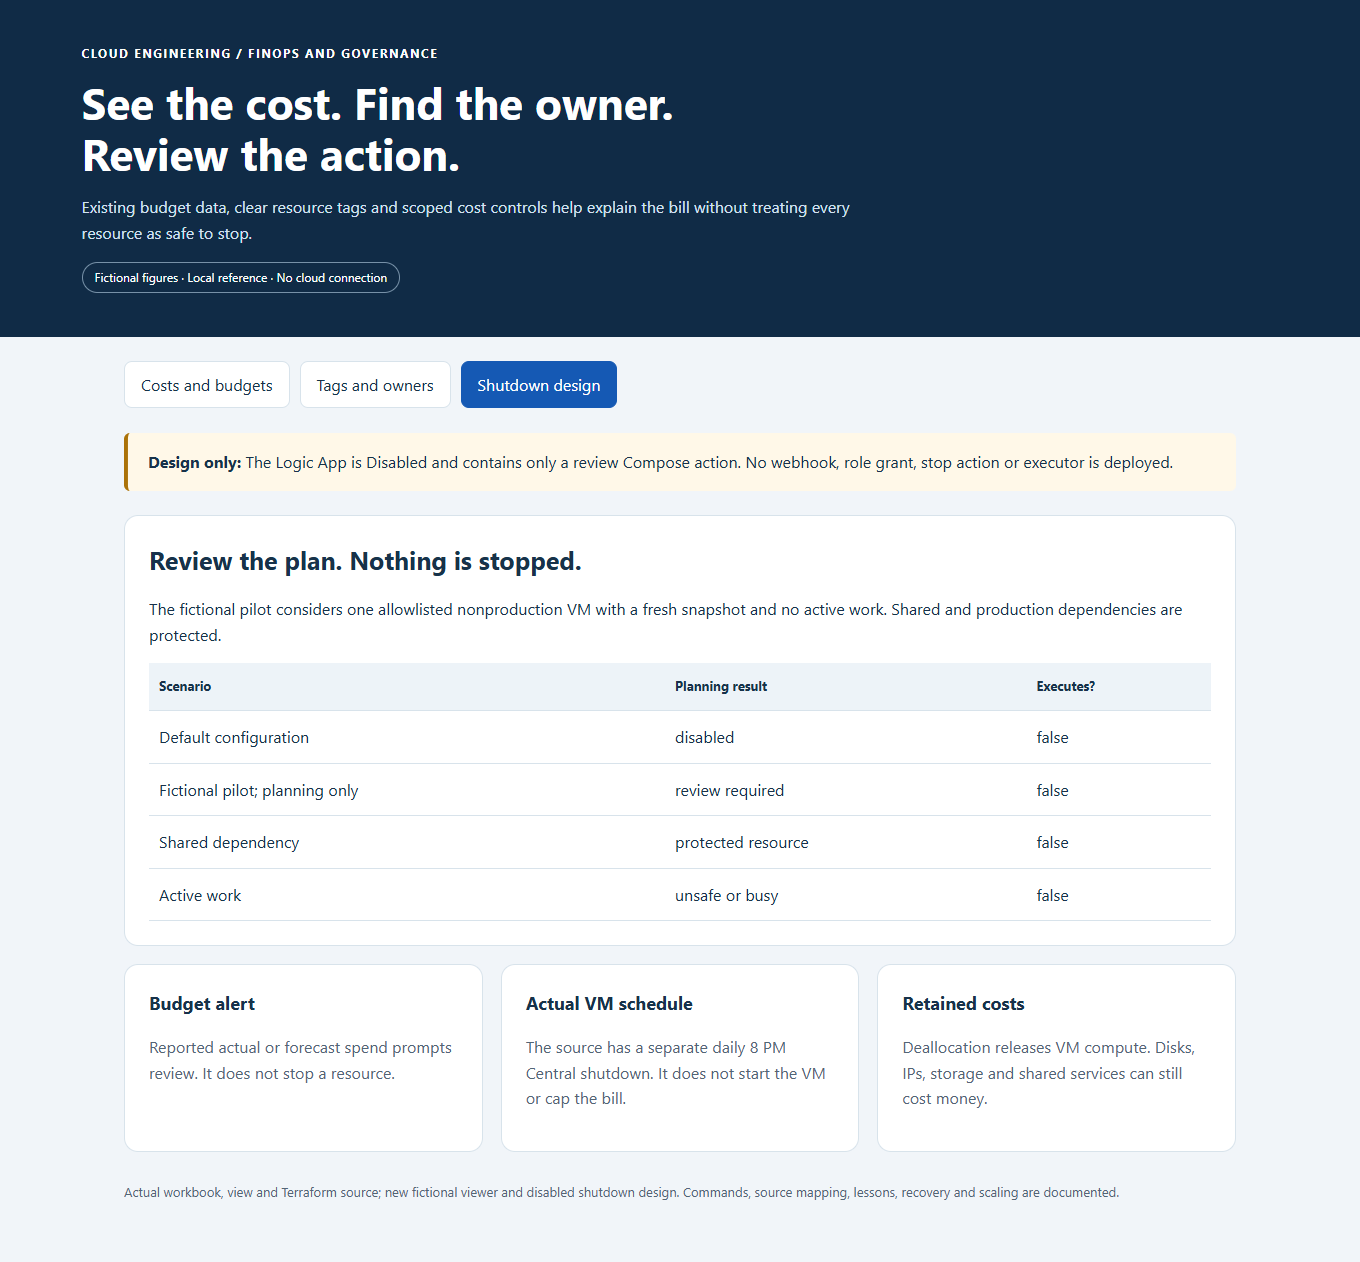
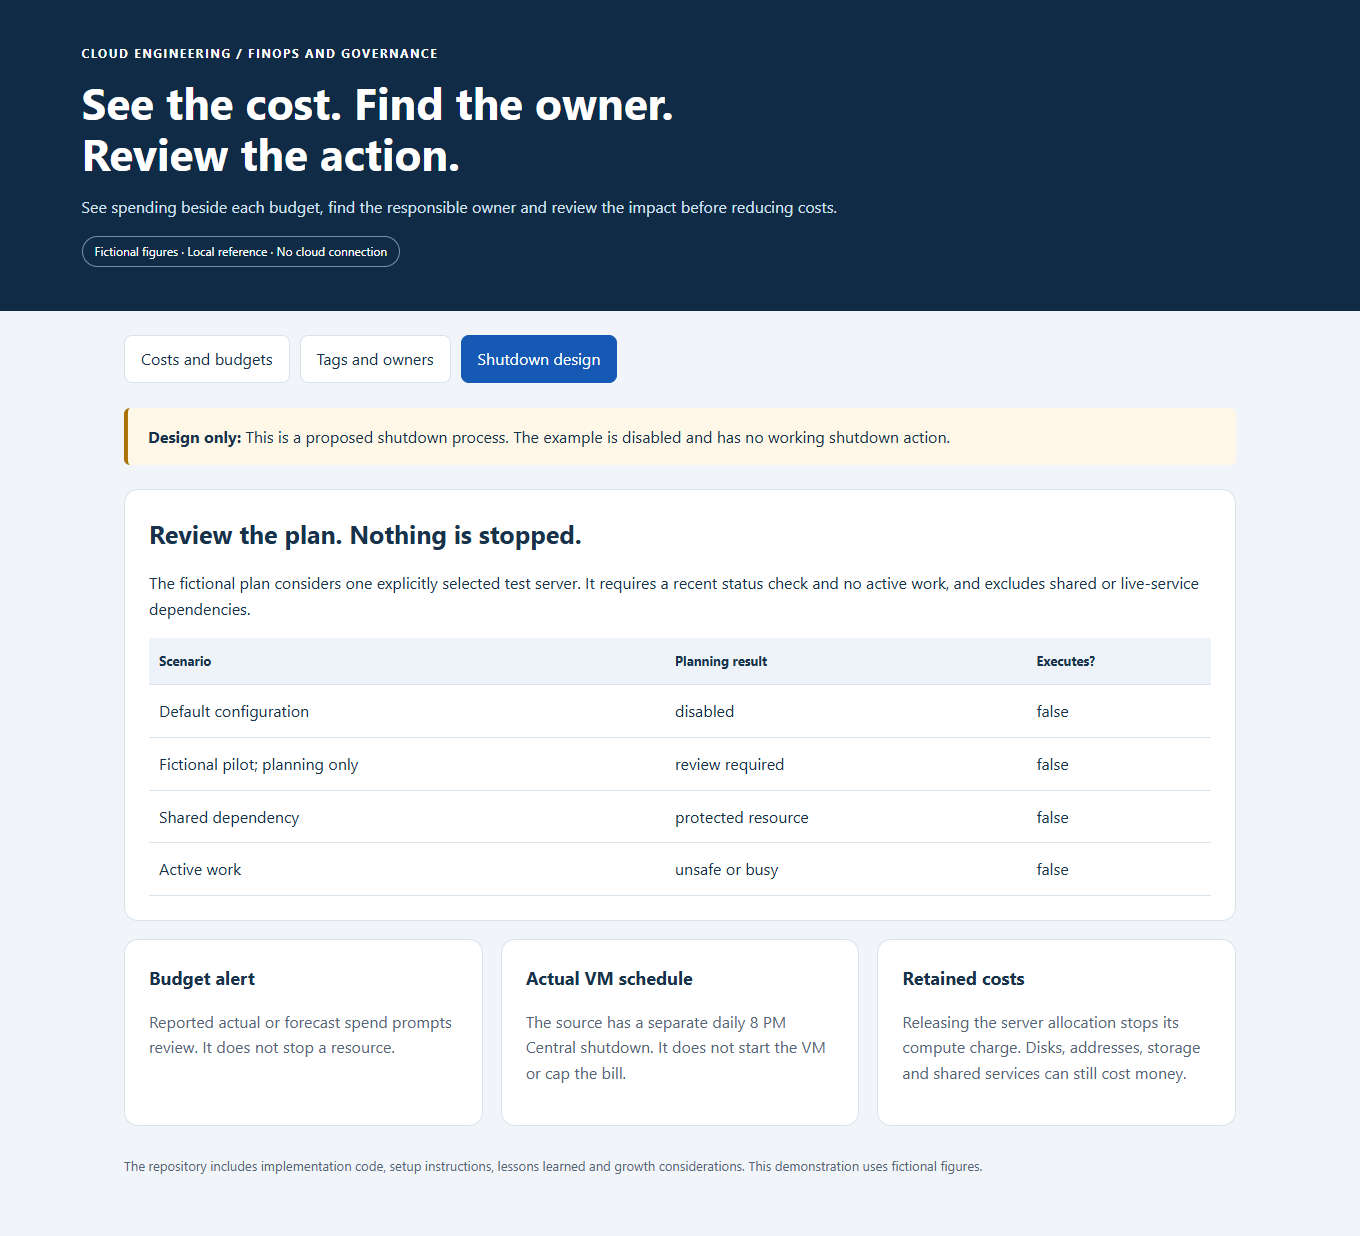
Lead with plain business explanations and retain technical detail separately

diff --git a/preview/index.html b/preview/index.html
@@ -1,10 +1,10 @@
 <!doctype html><html lang="en"><head><meta charset="utf-8"><meta name="viewport" content="width=device-width,initial-scale=1"><title>Cost visibility and tagging</title><style>
 :root{color-scheme:light;--navy:#102b46;--ink:#17324a;--muted:#536576;--line:#d8e3eb;--blue:#1559b4;--teal:#086b5c}*{box-sizing:border-box}body{margin:0;background:#f1f5f9;color:var(--ink);font:16px/1.6 system-ui,sans-serif}header{background:var(--navy);color:white;padding:44px max(6vw,20px)}header p{max-width:780px;color:#d3e3f2}h1{font-size:clamp(29px,4vw,44px);line-height:1.15;max-width:850px;margin:14px 0}h2{font-size:25px;margin:0 0 12px}h3{font-size:18px;margin:0 0 8px}.eyebrow{text-transform:uppercase;letter-spacing:.13em;font-size:12px;font-weight:750}.pill{border:1px solid #7791a8;border-radius:20px;padding:5px 12px;font-size:12px;display:inline-block}main{max-width:1160px;margin:auto;padding:24px}nav{display:flex;gap:10px;flex-wrap:wrap;margin-bottom:25px}button{font:inherit;cursor:pointer;border:1px solid var(--line);background:white;color:var(--ink);border-radius:8px;padding:10px 16px}button[aria-selected=true]{background:var(--blue);color:white;border-color:var(--blue)}button:focus-visible{outline:3px solid #c98913;outline-offset:3px}.grid{display:grid;grid-template-columns:repeat(3,minmax(0,1fr));gap:18px}.card,.box{background:white;border:1px solid var(--line);border-radius:14px;padding:24px;margin-bottom:18px}.card p{color:var(--muted)}.big{font-size:27px;font-weight:750;color:var(--blue)}.note{padding:16px 20px;border-left:4px solid #ab7208;background:#fff8e8;border-radius:6px;margin:16px 0 24px}.step{display:grid;grid-template-columns:42px 1fr;gap:16px;padding:18px 0;border-top:1px solid var(--line)}.number{background:#e5f0ff;border-radius:50%;width:38px;height:38px;display:grid;place-items:center;font-weight:800}.step p{margin:0;color:var(--muted)}.table-wrap{overflow:auto}table{border-collapse:collapse;width:100%;text-align:left}th,td{border-bottom:1px solid var(--line);padding:13px 10px;vertical-align:top}th{font-size:13px;background:#edf3f8}.pass{color:var(--teal);font-weight:750}.blocked{color:#8a3b0a;font-weight:750}code{background:#edf3f8;border-radius:4px;padding:2px 5px;overflow-wrap:anywhere}footer{color:var(--muted);font-size:13px;padding:12px 0 35px}[hidden]{display:none!important}@media(max-width:700px){main{padding:16px}header{padding:30px 20px}.grid{grid-template-columns:1fr}.card,.box{padding:18px}th,td{padding:10px 7px;font-size:14px}}
 </style></head><body>
-<header><div class="eyebrow">Cloud engineering / FinOps and governance</div><h1>See the cost. Find the owner.<br>Review the action.</h1><p>Existing budget data, clear resource tags and scoped cost controls help explain the bill without treating every resource as safe to stop.</p><span class="pill">Fictional figures · Local reference · No cloud connection</span></header><main>
+<header><div class="eyebrow">Cloud engineering / FinOps and governance</div><h1>See the cost. Find the owner.<br>Review the action.</h1><p>See spending beside each budget, find the responsible owner and review the impact before reducing costs.</p><span class="pill">Fictional figures · Local reference · No cloud connection</span></header><main>
 <nav role="tablist" aria-label="Project sections"><button role="tab" id="tab-costs" aria-controls="costs" aria-selected="true">Costs and budgets</button><button role="tab" id="tab-tags" aria-controls="tags" aria-selected="false">Tags and owners</button><button role="tab" id="tab-shutdown" aria-controls="shutdown" aria-selected="false">Shutdown design</button></nav>
-<section id="costs" role="tabpanel" aria-labelledby="tab-costs"><div class="note"><strong>Illustrative only:</strong> All spend below is fictional. Budget thresholds notify; they do not cap charges. Missing data is not zero.</div><div class="grid" id="budget-cards"></div><div class="box"><h2>One overview. Native details.</h2><p>The actual workbook reads three existing budget resources. Detailed daily actual cost stays in Azure Cost Analysis, with breakdowns by service, resource group and billing meter category.</p><p>Cost reporting is delayed. A refreshed page is not a real-time meter or final invoice.</p></div><div class="box"><h2>Controls with different jobs</h2><div class="table-wrap"><table><thead><tr><th>Control</th><th>Purpose</th><th>Boundary</th></tr></thead><tbody><tr><td>50%, 80%, 100% actual</td><td>Review recorded spend</td><td>Notifications only</td></tr><tr><td>90% forecast</td><td>Review projected spending</td><td>A forecast is not an invoice</td></tr><tr><td>Tag policy</td><td>Find missing resource tags</td><td>Enforcement disabled</td></tr><tr><td>Logic App shutdown</td><td>Proposed scoped cost action</td><td>Deferred; no shutdown action</td></tr></tbody></table></div></div></section>
-<section id="tags" role="tabpanel" aria-labelledby="tab-tags" hidden><div class="box"><h2>Ownership should be easy to find</h2><p>Seven common keys identify environment, workload, owner, management method, data class, criticality and cost center.</p><div class="table-wrap"><table><thead><tr><th>Fictional resource</th><th>Owner</th><th>Cost center</th><th>Missing tags</th></tr></thead><tbody id="tag-rows"></tbody></table></div></div><div class="note"><strong>Source gap kept visible:</strong> The copied workbook builder omits criticality. The checks identify it; they do not silently change the live resource.</div><div class="box"><h2>Tags support a decision. They do not authorize it.</h2><p>A nonproduction subscription can contain shared production dependencies. Resource-group tags do not automatically become resource tags. The copied policy evaluates compliance without enforcing or remediating it.</p></div></section>
-<section id="shutdown" role="tabpanel" aria-labelledby="tab-shutdown" hidden><div class="note"><strong>Design only:</strong> The Logic App is Disabled and contains only a review Compose action. No webhook, role grant, stop action or executor is deployed.</div><div class="box"><h2>Review the plan. Nothing is stopped.</h2><p>The fictional pilot considers one allowlisted nonproduction VM with a fresh snapshot and no active work. Shared and production dependencies are protected.</p><div class="table-wrap"><table><thead><tr><th>Scenario</th><th>Planning result</th><th>Executes?</th></tr></thead><tbody id="shutdown-rows"></tbody></table></div></div><div class="grid"><article class="card"><h3>Budget alert</h3><p>Reported actual or forecast spend prompts review. It does not stop a resource.</p></article><article class="card"><h3>Actual VM schedule</h3><p>The source has a separate daily 8 PM Central shutdown. It does not start the VM or cap the bill.</p></article><article class="card"><h3>Retained costs</h3><p>Deallocation releases VM compute. Disks, IPs, storage and shared services can still cost money.</p></article></div></section>
-<footer>Actual workbook, view and Terraform source; new fictional viewer and disabled shutdown design. Commands, source mapping, lessons, recovery and scaling are documented.</footer></main>
+<section id="costs" role="tabpanel" aria-labelledby="tab-costs"><div class="note"><strong>Illustrative only:</strong> All spend below is fictional. Budget thresholds notify; they do not cap charges. Missing data is not zero.</div><div class="grid" id="budget-cards"></div><div class="box"><h2>Start with the overview. Explore the details in Azure.</h2><p>The dashboard shows three existing budgets. Azure Cost Analysis provides the detailed spending breakdowns.</p><p>Cost reporting is delayed. A refreshed page is not a real-time meter or final invoice.</p></div><div class="box"><h2>Controls with different jobs</h2><div class="table-wrap"><table><thead><tr><th>Control</th><th>Purpose</th><th>Boundary</th></tr></thead><tbody><tr><td>50%, 80%, 100% actual</td><td>Review recorded spend</td><td>Notifications only</td></tr><tr><td>90% forecast</td><td>Review projected spending</td><td>A forecast is not an invoice</td></tr><tr><td>Tag policy</td><td>Find missing resource tags</td><td>Enforcement disabled</td></tr><tr><td>Logic App shutdown</td><td>Proposed scoped cost action</td><td>Deferred; no shutdown action</td></tr></tbody></table></div></div></section>
+<section id="tags" role="tabpanel" aria-labelledby="tab-tags" hidden><div class="box"><h2>Ownership should be easy to find</h2><p>Resource labels identify the environment, purpose, owner, management method, data sensitivity, importance and cost center.</p><div class="table-wrap"><table><thead><tr><th>Fictional resource</th><th>Owner</th><th>Cost center</th><th>Missing tags</th></tr></thead><tbody id="tag-rows"></tbody></table></div></div><div class="note"><strong>Source gap kept visible:</strong> The dashboard builder leaves out the importance label, called criticality. The tests report that gap without changing live resources.</div><div class="box"><h2>Tags support a decision. They do not authorize it.</h2><p>A test environment can still contain services used by the live platform. Labels help with the review but do not grant permission to stop a resource. The rules report missing labels without fixing or blocking them automatically.</p></div></section>
+<section id="shutdown" role="tabpanel" aria-labelledby="tab-shutdown" hidden><div class="note"><strong>Design only:</strong> This is a proposed shutdown process. The example is disabled and has no working shutdown action.</div><div class="box"><h2>Review the plan. Nothing is stopped.</h2><p>The fictional plan considers one explicitly selected test server. It requires a recent status check and no active work, and excludes shared or live-service dependencies.</p><div class="table-wrap"><table><thead><tr><th>Scenario</th><th>Planning result</th><th>Executes?</th></tr></thead><tbody id="shutdown-rows"></tbody></table></div></div><div class="grid"><article class="card"><h3>Budget alert</h3><p>Reported actual or forecast spend prompts review. It does not stop a resource.</p></article><article class="card"><h3>Actual VM schedule</h3><p>The source has a separate daily 8 PM Central shutdown. It does not start the VM or cap the bill.</p></article><article class="card"><h3>Retained costs</h3><p>Releasing the server allocation stops its compute charge. Disks, addresses, storage and shared services can still cost money.</p></article></div></section>
+<footer>The repository includes implementation code, setup instructions, lessons learned and growth considerations. This demonstration uses fictional figures.</footer></main>
 <script>const tabs=[...document.querySelectorAll('[role=tab]')];function select(tab){for(const t of tabs){t.setAttribute('aria-selected',String(t===tab));document.getElementById(t.getAttribute('aria-controls')).hidden=t!==tab}}for(const tab of tabs){tab.addEventListener('click',()=>select(tab));tab.addEventListener('keydown',e=>{if(['ArrowLeft','ArrowRight'].includes(e.key)){e.preventDefault();const next=tabs[(tabs.indexOf(tab)+(e.key==='ArrowRight'?1:-1)+tabs.length)%tabs.length];select(next);next.focus()}})}function el(tag,text,cls){const e=document.createElement(tag);e.textContent=text;if(cls)e.className=cls;return e}function row(id,values){const tr=document.createElement('tr');values.forEach(x=>tr.append(el('td',x)));document.getElementById(id).append(tr)}fetch('/data.json').then(r=>{if(!r.ok)throw Error('Reference data unavailable');return r.json()}).then(data=>{for(const b of data.budgets){const c=el('article','','card');c.append(el('h2',b.scope),el('div',b.currency+' '+b.reported,'big'),el('p','Fictional reported spend'),el('p','Monthly alert budget: '+b.currency+' '+b.budget),el('p',b.percentage===null?'Budget comparison unknown':b.percentage+'% of alert budget'),el('p','Fictional forecast: '+b.currency+' '+b.forecast));document.getElementById('budget-cards').append(c)}for(const r of data.resources)row('tag-rows',[r.name,r.tags.owner||'Unassigned',r.tags.cost_center||'Unassigned',r.missing.length?r.missing.join(', '):'None']);for(const s of data.shutdown)row('shutdown-rows',[s.scenario,s.status.replaceAll('_',' '),String(s.execute)])}).catch(e=>{const p=el('p',e.message);p.setAttribute('role','alert');document.querySelector('main').prepend(p)});</script></body></html>

diff --git a/README.md b/README.md
@@ -1,6 +1,6 @@
 # Azure Cost Visibility, Tagging and FinOps
 
-**Make cloud spending understandable, connect resources to owners and review cost actions before disrupting services.**
+**See where cloud money goes, who owns each resource and what to review before reducing costs.**
 
 [Business problem](#the-business-problem) · [Strengths](#engineering-strengths) · [What was built](#what-was-built) · [Shutdown design](#logic-app-shutdown-design) · [Proof](#proof-it-works) · [Commands](docs/COMMANDS.md)
 
@@ -8,63 +8,68 @@
 
 ## The Business Problem
 
-The platform has live services, test environments and shared services. A single bill does not explain which environment is driving spend, who owns a resource or why charges continue after an application is paused. Missing tags make that investigation harder. Automatically stopping everything in a nonproduction subscription could also interrupt shared production dependencies.
+A cloud bill shows charges, but it does not always explain which system caused them or who should investigate. Costs can also continue after an application is paused.
+
+I needed a clear view of spending across live services, test environments and shared services. Cost reductions also needed care: a resource in a test subscription might still support a live service.
 
 ## The Solution
 
-Bring existing subscription budgets into one Azure Monitor workbook, keep detailed daily analysis in native Cost Management views and use consistent tags to identify resources and their owners. Use actual and forecast alerts to prompt review. Keep resource shutdown separate from reporting, with an explicit allowlist and recovery plan before any future budget-triggered automation.
+I brought the existing budgets into one Azure dashboard and kept detailed spending breakdowns in Azure Cost Management. Resource tags—labels such as owner, environment and cost center—help connect charges to the responsible team.
 
-**Business outcome:** Engineers can compare reported spend with the correct environment budget, find an owner and investigate a cost driver before changing capacity or stopping services. The public example uses fictional spending figures and does not claim measured savings.
+**Business outcome:** Engineers can investigate spending before changing services. Budget alerts prompt a review; they do not stop spending automatically. The public examples use fictional costs.
 
 ## Engineering Strengths
 
-| Strength | Practical value |
+| Design choice | Practical benefit |
 | --- | --- |
-| **Uses existing budget data** | The workbook reads budget resources rather than adding a second log workspace or a new ingestion pipeline just to display costs. |
-| **Separates actual from forecast** | Alerts at 50%, 80% and 100% of actual spending differ from a 90% forecast alert. The saved alert type determines which one applies. |
-| **Makes ownership visible** | Seven common tag keys connect an environment, workload, owner and cost center with operational context. |
-| **Keeps policy behavior explicit** | The tag and location policies report compliance with enforcement disabled. They do not silently block deployments or repair tags. |
-| **Protects existing views** | The saved-view helper checks existing views and refuses mismatches instead of overwriting them. |
-| **Keeps cost actions scoped** | The proposed shutdown model rejects shared dependencies, production resources, stale observations and active work; it never executes a stop. |
+| Reuse existing budget information | Avoid another data collection system just to show costs. |
+| Label resources consistently | Make it easier to find an owner and understand a resource's purpose. |
+| Separate recorded spending from forecasts | Help readers distinguish charges already reported from estimates of future spending. |
+| Report missing tags without blocking changes | Give owners a chance to correct gaps without unexpected service disruption. |
+| Review shutdown plans separately | Avoid stopping a shared or busy service just because a budget alert arrived. |
 
 ## Architecture
 
 ```mermaid
 flowchart LR
-  Budgets[Existing subscription budgets] --> Workbook[Budget data in shared workbook]
-  Billing[Azure cost records] --> Views[Daily native Cost Analysis views]
-  Tags[Terraform common tags] --> Ownership[Owner and cost-center context]
-  Policy[Policy with enforcement disabled] --> Gaps[Missing-tag review]
-  Budgets --> Alerts[Actual and forecast notifications]
-  Alerts -. Proposed only .-> Logic[Disabled Logic App review design]
-  Logic -. No shutdown action included .-> Review[Explicit allowlist and operator review]
+  Budgets[Existing budgets] --> Dashboard[Shared cost dashboard]
+  Costs[Azure spending records] --> Details[Detailed spending views]
+  Labels[Resource labels] --> Owners[Owner and business purpose]
+  Budgets --> Alert[Spending alert]
+  Alert -. Proposed only .-> Review[Review a possible shutdown]
 ```
 
-A budget is an alert threshold, not a spending cap. The workbook does not grant cost access, change budgets or stop resources. Resource Graph inventory helps find resources and tags; it does not supply their billed spend.
+FinOps means managing cloud spending with both business and engineering needs in mind. A budget is an alert threshold, not a spending limit.
 
 ## What Was Built
 
-| Component | Status and purpose | Source |
+| Part | What it does | Details |
 | --- | --- | --- |
-| Shared cost workbook builder | Implemented builder with three budget panels and clear spending labels | [Builder](scripts/build_cost_visibility_workbook.py), [example ARM output](templates/cost-visibility.workbook.json) |
-| Native saved-view helper | Implemented helper for daily spending, budget indicators and grouping by service, resource group or billing meter | [Helper](reference/ensure_cost_visibility_views.py) |
-| Monthly budget alerts | Terraform from the implementation; the public example defaults Off | [Budget](infra/cost-controls/budget.tf) |
-| Tag/location policy | Reusable module with enforcement disabled (`enforce=false`) | [Governance](infra/governance/main.tf) |
-| Common tagging pattern | Seven standard tag keys, with fictional values | [Tags](reference/infra/common-tags.tf) |
-| Scheduled VM shutdown | Actual source reference; daily 8 PM Central, without automatic startup | [VM schedule](reference/infra/vm-shutdown.tf) |
-| Budget-triggered Logic App shutdown | Deferred design represented by a disabled review-only template and new local planning model | [Design](design/logic-app-shutdown-review.json), [guards](scripts/finops_reference.py) |
+| Shared dashboard | Shows existing budgets and reported spending. | [Dashboard builder](scripts/build_cost_visibility_workbook.py) |
+| Detailed spending views | Breaks spending down by service and resource group. | [View setup](reference/ensure_cost_visibility_views.py) |
+| Budget alerts | Warns when recorded or forecast spending reaches chosen levels. | [Budget settings](infra/cost-controls/budget.tf) |
+| Resource labeling rules | Helps identify owners and missing labels. | [Rules](infra/governance/main.tf) and [labels](reference/infra/common-tags.tf) |
+| Daily server shutdown schedule | Provides a separate scheduled shutdown, with no automatic startup. | [Schedule](reference/infra/vm-shutdown.tf) |
+| Proposed budget-triggered shutdown | Demonstrates review rules without stopping anything. | [Design](design/logic-app-shutdown-review.json) |
 
 ## Logic App Shutdown Design
 
-The original budget-triggered shutdown idea remained deferred. It is included here as a **design and local dry run**, not a deployed solution.
+Azure Logic Apps connects scheduled tasks and events to processing steps. I explored using it to review a possible shutdown after a budget alert.
 
-![Disabled shutdown planning and protected scenarios](docs/images/03-shutdown.png)
+**This part remains a design, not working shutdown automation.** The example is disabled and cannot stop resources. A real implementation would need to verify the alert, check current dependencies and activity, identify exactly what may stop, and provide a recovery plan.
 
-The proposed sequence is budget alert → authenticated event → current resource/dependency check → exact allowlist → reviewed action → verified result and recovery record. The included Logic App is Disabled and contains only a Compose action; it has no connected webhook, stop action, access grant or shutdown code. Even the fictional eligible plan returns `execute: false`.
-
-The separate implemented VM schedule is a different control. Neither a budget email nor a schedule creates a universal cost cap. Stopped-but-allocated VMs can still incur compute charges; deallocation also leaves disk and other retained-resource charges. [Shutdown boundaries](docs/SHUTDOWN-DESIGN.md).
+Stopping a server also does not remove every charge: disks, storage and other retained resources can still cost money. [Design and safeguards](docs/SHUTDOWN-DESIGN.md).
 
 ## Proof It Works
+
+Recorded local checks covered the dashboard builder, resource labels and the proposed review rules: **16 tests passed**, plus **four infrastructure test cases using simulated Azure responses**.
+
+One useful finding remained visible: the dashboard's resource-label view included six of the seven common tag keys and omitted `criticality`, which describes how important a resource is. The project reports that gap rather than claiming complete coverage.
+
+The screenshots are local examples with fictional costs. These checks did not query a live bill or stop cloud services. [Full results](docs/VALIDATION.md).
+
+<details>
+<summary>For engineers: detailed results, examples and commands</summary>
 
 ### 1. Check the real builders and fictional decision models
 
@@ -103,6 +108,8 @@ python -B scripts/preview.py --port 8143
 ```
 
 Open [the local reference](http://127.0.0.1:8143). Figures and resources are fictional. Screenshots are actual local captures, not a fresh Azure cost report or portal acceptance test.
+
+</details>
 
 ## Guides
 

diff --git a/docs/VALIDATION.md b/docs/VALIDATION.md
@@ -31,3 +31,15 @@ scripts remained unchanged; this pass changed text and screenshots only.
 
 These browser checks did not repeat cloud acceptance or the earlier code tests.
 No Azure service, Gmail account, provider session or hosted Actions run was used.
+
+## Plain-language review - November 7, 2026
+
+The main overview now starts with the business problem, the solution and the
+practical outcome. Technical commands and detailed results remain available in
+expandable sections and linked guides. Links, heading anchors, formatting and
+expandable sections were checked. Earlier code-test and cloud results remain
+historical; this wording pass did not repeat those tests.
+
+The fictional preview was also simplified, its screenshots refreshed, and its
+desktop tabs and 390-pixel mobile layout checked locally. Browser requests were
+restricted to the local preview; HTML structure and embedded scripts were unchanged.
